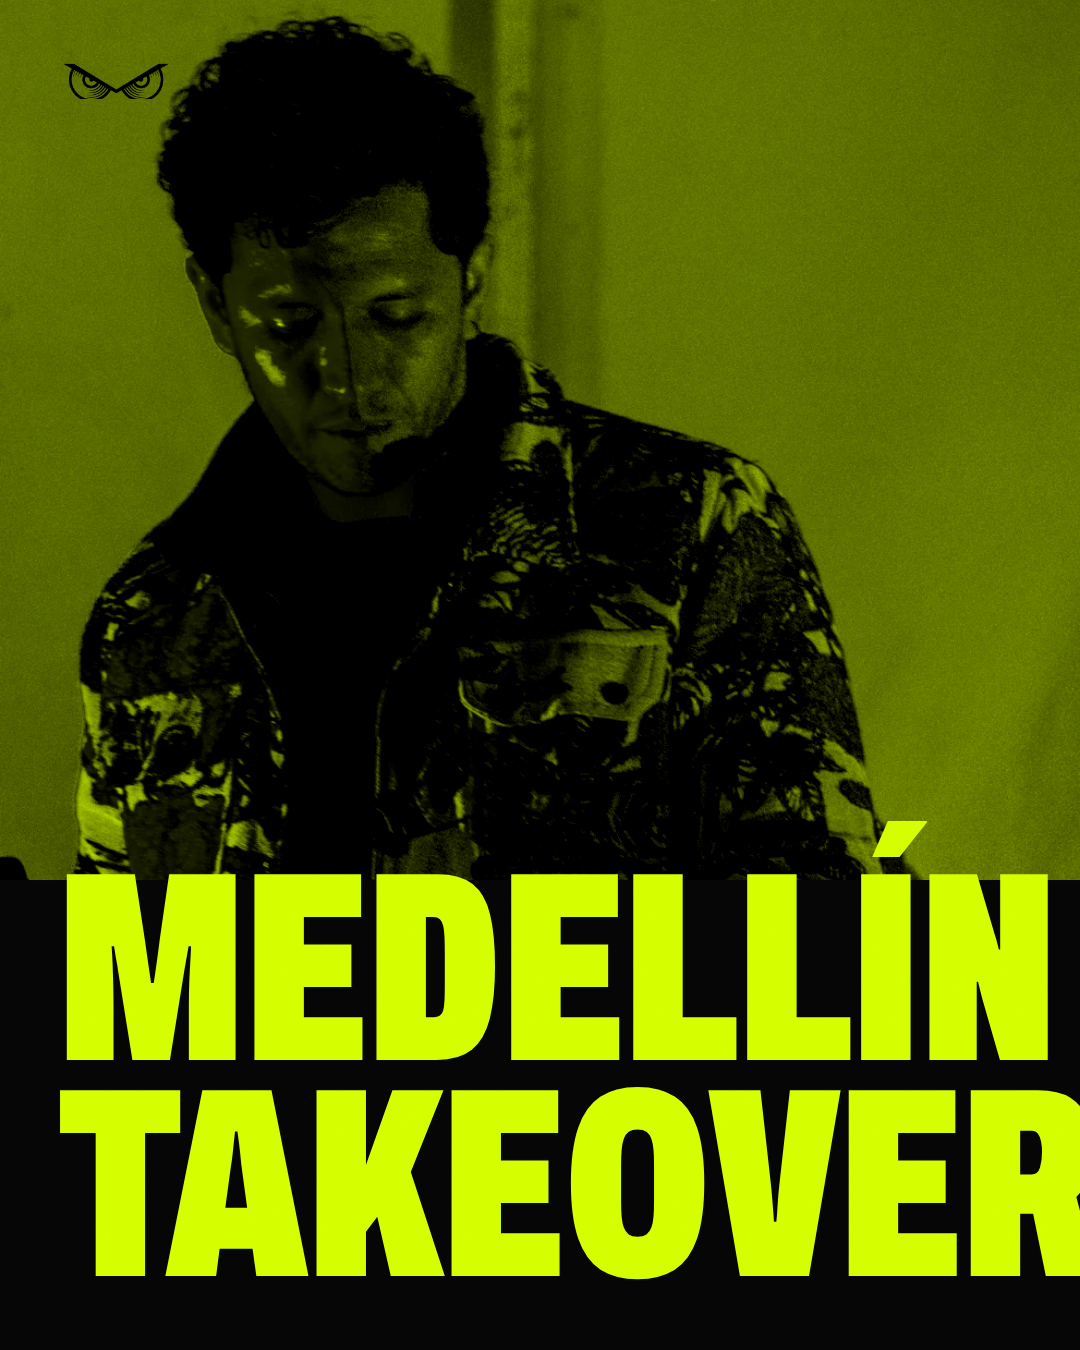
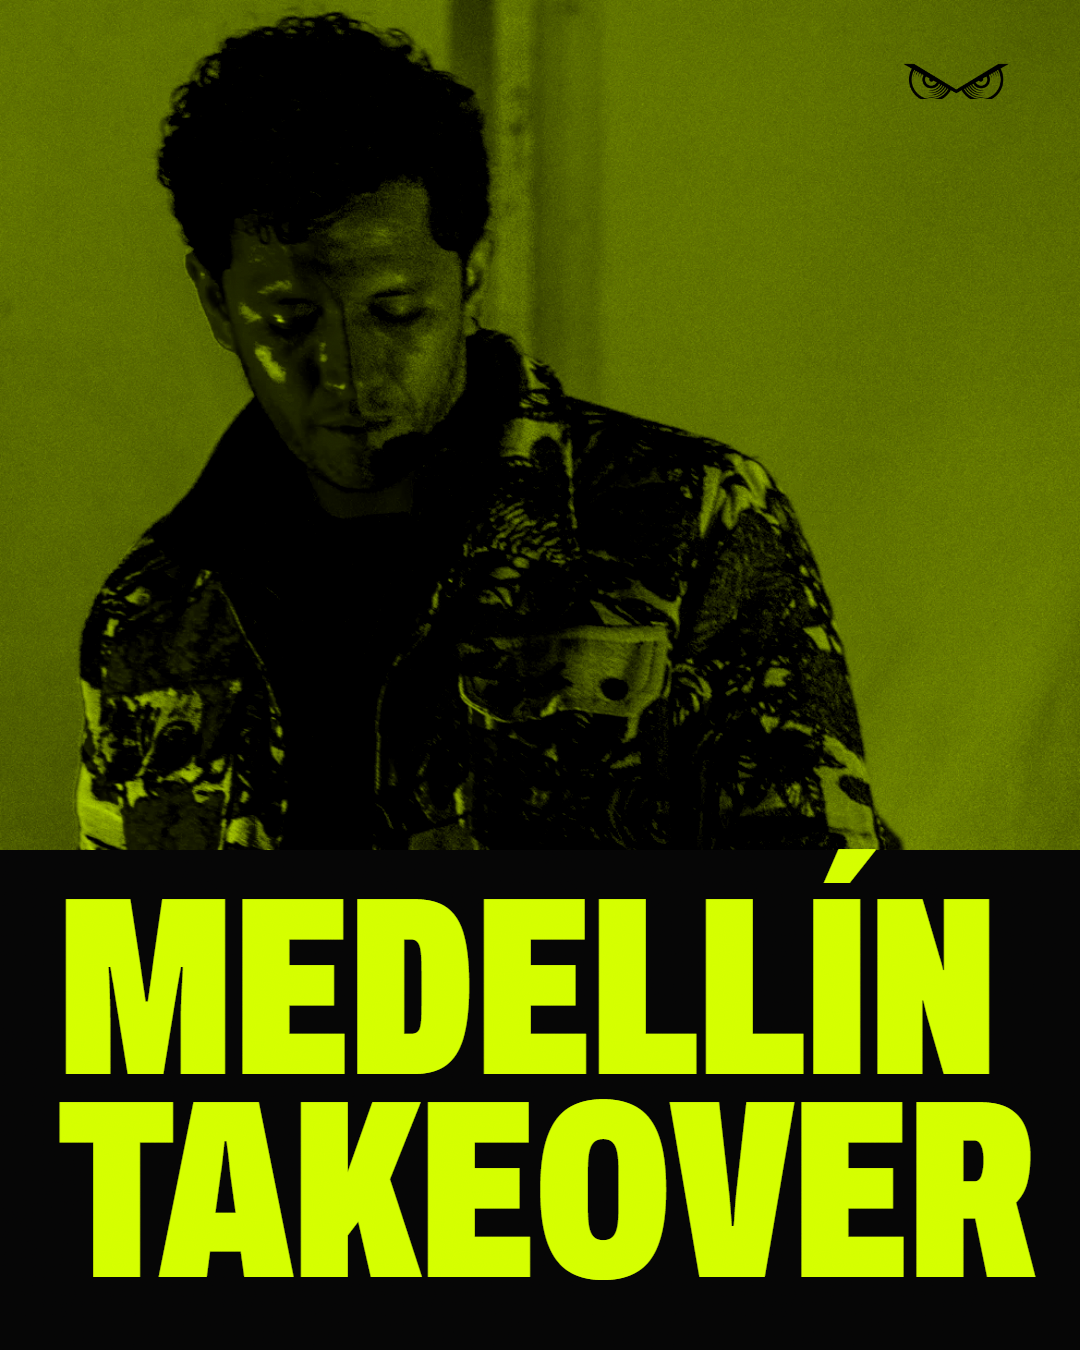
Takeover: ajuste de portada (título, banda negra y búho)

diff --git a/ig/src/piece.html b/ig/src/piece.html
@@ -175,14 +175,14 @@ body{color:var(--bone);font-family:var(--cond);-webkit-font-smoothing:antialiase
 
 <!-- 1 · Portada -->
 <section class="piece mt" id="m1">
-  <div class="dk" style="bottom:470px"><img src="img/david-green.webp" style="object-position:50% 12%"></div>
-  <img class="owl-ink" src="../../assets/img/owl.png" style="left:60px;top:60px">
-  <p class="big" style="bottom:56px;font-size:270px;color:var(--acid)">Medellín<br>Takeover</p>
+  <div class="dk" style="bottom:500px"><img src="img/david-green.webp" style="object-position:50% 12%"></div>
+  <img class="owl-ink" src="../../assets/img/owl.png" style="right:60px;top:60px">
+  <p class="big" style="bottom:56px;font-size:254px;color:var(--acid)">Medellín<br>Takeover</p>
 </section>
 <section class="piece story mt" id="n1">
-  <div class="dk" style="bottom:720px"><img src="img/david-green.webp" style="object-position:50% 12%"></div>
-  <img class="owl-ink" src="../../assets/img/owl.png" style="left:60px;top:170px">
-  <p class="big" style="bottom:300px;font-size:270px;color:var(--acid)">Medellín<br>Takeover</p>
+  <div class="dk" style="bottom:750px"><img src="img/david-green.webp" style="object-position:50% 12%"></div>
+  <img class="owl-ink" src="../../assets/img/owl.png" style="right:60px;top:170px">
+  <p class="big" style="bottom:300px;font-size:254px;color:var(--acid)">Medellín<br>Takeover</p>
 </section>
 
 <!-- 2 · La fecha -->
